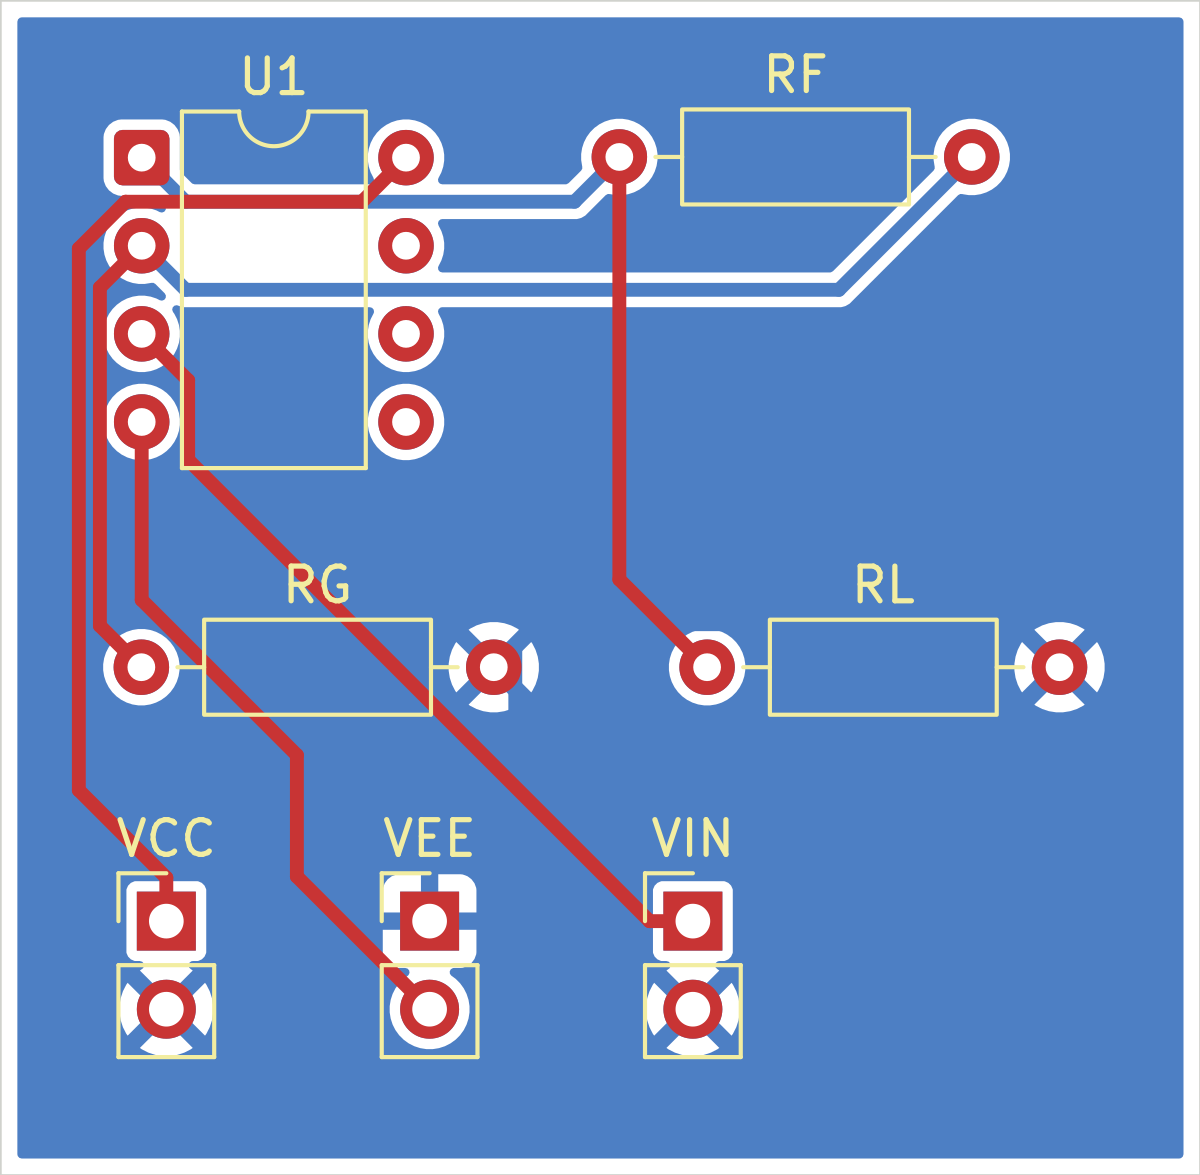
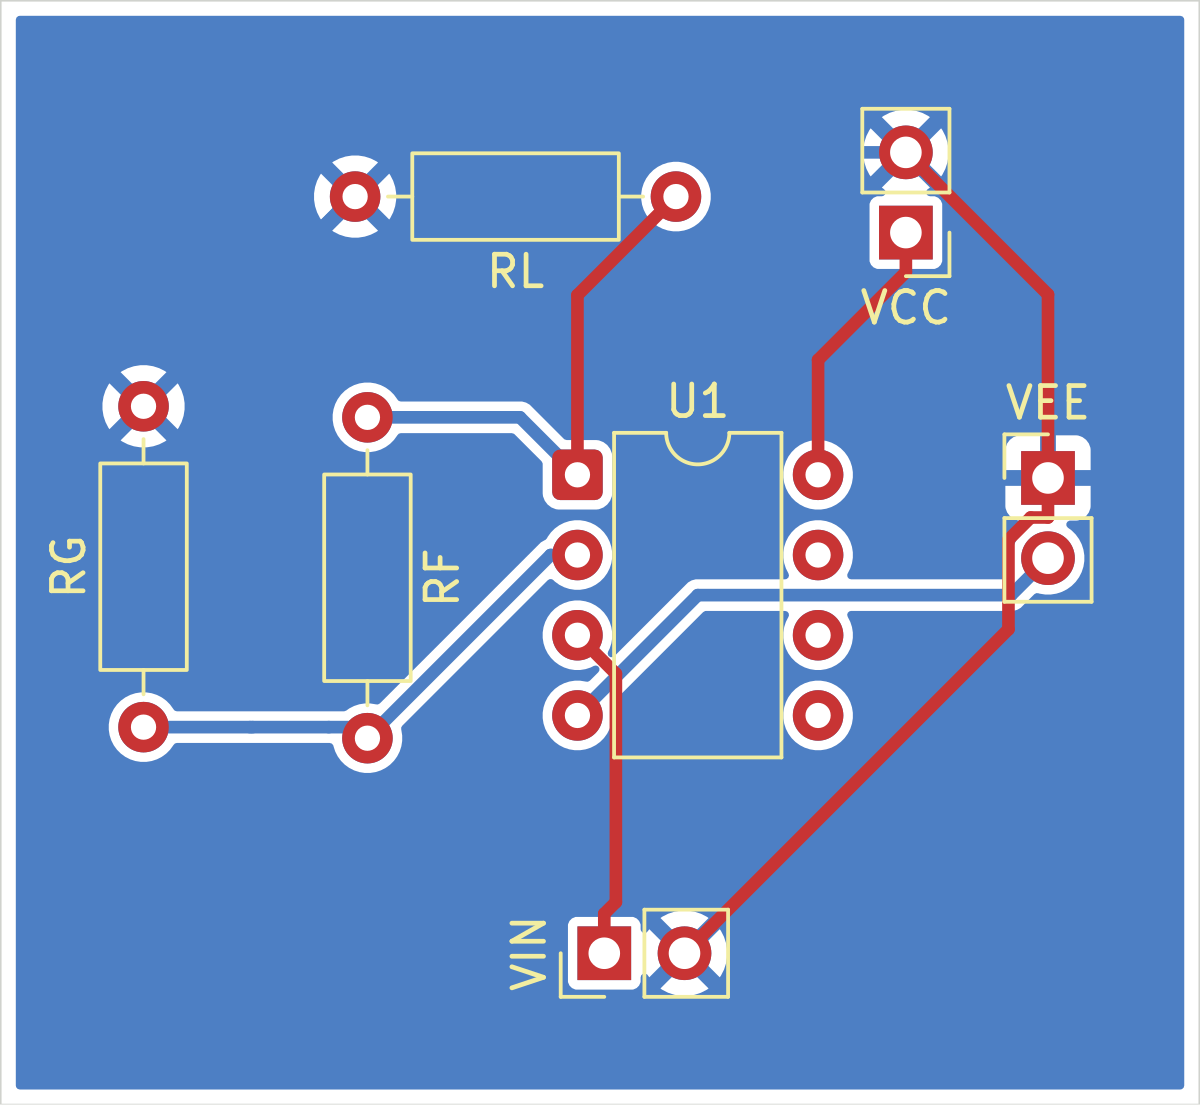
Boards: connectivity-aware auto-placement
- greedy placer: each unplaced part goes to the grid position and 90-degree
  rotation that least grows its nets' bounding boxes and the layout
- part sizes from footprint courtyards (the Pico's full bounding box
  included a fabrication drawing 20 mm beyond the module)
- board.placer: shelf keeps the old packer
- examples: tracks 23-37 % shorter; pico_io board 40 % smaller, no via,
  no starved_thermal warning

diff --git a/src/eda/adapters/pcbnew_script.py b/src/eda/adapters/pcbnew_script.py
@@ -25,6 +25,7 @@ pcbnew: Any = importlib.import_module("pcbnew")
 
 type Request = dict[str, Any]
 type Box = tuple[float, float, float, float]
+type Shape = tuple[float, Box, list[tuple[str, float, float]]]  # rotation, courtyard, pads
 
 FOOTPRINT_DIR = Path(os.environ.get("KICAD10_FOOTPRINT_DIR", "/usr/share/kicad/footprints"))
 
@@ -59,8 +60,21 @@ def _apply_rules(board: Any, rules: Request) -> None:
 
 
 def _courtyard(footprint: Any) -> Box:
-    """Bounding box (mm) of the footprint including courtyard and pads, at its position."""
-    box = footprint.GetBoundingBox(False)
+    """Bounding box (mm) of the footprint's courtyard and pads, at its position.
+
+    Footprints without a courtyard fall back to their full bounding box (which can include
+    fabrication drawings far beyond the part, e.g. the Pico's debug-header outline)."""
+    box = None
+    for layer in (pcbnew.F_CrtYd, pcbnew.B_CrtYd):
+        outline = footprint.GetCourtyard(layer)
+        if outline.OutlineCount():
+            part = outline.BBox()
+            box = part if box is None else box.Merge(part) or box
+    if box is None:
+        box = footprint.GetBoundingBox(False)
+    else:
+        for pad in footprint.Pads():
+            box.Merge(pad.GetBoundingBox())
     return (
         pcbnew.ToMM(box.GetX()),
         pcbnew.ToMM(box.GetY()),
@@ -92,6 +106,155 @@ def _auto_place(
         footprint.SetPosition(_point(x - bx, y - by))
         x += bw + gap
         shelf = max(shelf, bh)
+
+
+ROTATIONS = (0.0, 90.0, 180.0, 270.0)
+GRID_MM = 0.5  # candidate positions are on this grid
+AREA_WEIGHT = 0.5  # cost of growing the layout's half-perimeter, relative to wire length
+
+
+def _shape(footprint: Any, rotation: float) -> tuple[Box, list[tuple[str, float, float]]]:
+    """Courtyard box and (net, x, y) of each connected pad, relative to the footprint origin."""
+    footprint.SetOrientationDegrees(rotation)
+    footprint.SetPosition(_point(0, 0))
+    box = _courtyard(footprint)
+    pads: list[tuple[str, float, float]] = [
+        (
+            str(pad.GetNetname()),
+            float(pcbnew.ToMM(pad.GetPosition().x)),
+            float(pcbnew.ToMM(pad.GetPosition().y)),
+        )
+        for pad in footprint.Pads()
+        if pad.GetNetname()
+    ]
+    return box, pads
+
+
+def _overlaps(box: Box, others: list[Box], gap: float) -> bool:
+    x, y, w, h = box
+    for ox, oy, ow, oh in others:
+        if x < ox + ow + gap and ox < x + w + gap and y < oy + oh + gap and oy < y + h + gap:
+            return True
+    return False
+
+
+def _connected_place(
+    placed: list[tuple[Any, Box]],
+    unplaced: list[Any],
+    gap: float,
+    bounds: Box | None,
+) -> None:
+    """Greedy placement that keeps connected parts together.
+
+    Parts go one at a time, the one with the most connections to already placed parts
+    first (ties: larger first, then by reference). Each takes the grid position and
+    rotation with the lowest cost: the growth of every net's bounding box (half-perimeter
+    wire length) plus AREA_WEIGHT times the growth of the layout's own half-perimeter.
+    `bounds` (x, y, w, h) confines parts to a fixed board; otherwise the layout grows.
+    """
+    boxes = [box for _, box in placed]
+    net_boxes: dict[str, list[float]] = {}
+
+    def add_pad(net: str, x: float, y: float) -> None:
+        b = net_boxes.get(net)
+        if b is None:
+            net_boxes[net] = [x, y, x, y]
+        else:
+            b[0], b[1], b[2], b[3] = min(b[0], x), min(b[1], y), max(b[2], x), max(b[3], y)
+
+    for footprint, _ in placed:
+        for pad in footprint.Pads():
+            if pad.GetNetname():
+                pos = pad.GetPosition()
+                add_pad(pad.GetNetname(), pcbnew.ToMM(pos.x), pcbnew.ToMM(pos.y))
+
+    shapes: dict[int, list[Shape]] = {}
+    for fp in unplaced:
+        variants: list[Shape] = []
+        for rotation in ROTATIONS:
+            box, pads = _shape(fp, rotation)
+            variants.append((rotation, box, pads))
+        shapes[id(fp)] = variants
+    remaining = list(unplaced)
+    while remaining:
+
+        def priority(fp: Any) -> tuple[int, float, str]:
+            _, (_, _, w, h), pads = shapes[id(fp)][0]
+            linked = sum(1 for net, _, _ in pads if net in net_boxes)
+            return (-linked, -w * h, fp.GetReference())
+
+        remaining.sort(key=priority)
+        footprint = remaining.pop(0)
+        layout: Box | None = None  # x0, y0, x1, y1 of everything placed so far
+        if boxes:
+            layout = (
+                float(min(b[0] for b in boxes)),
+                float(min(b[1] for b in boxes)),
+                float(max(b[0] + b[2] for b in boxes)),
+                float(max(b[1] + b[3] for b in boxes)),
+            )
+        best: tuple[float, float, float, float] | None = None  # cost, x, y, rotation
+        for rotation, (bx, by, bw, bh), pads in shapes[id(footprint)]:
+            # Range of footprint origins whose box stays in the allowed area.
+            if bounds is not None:
+                area = (
+                    bounds[0],
+                    bounds[1],
+                    bounds[0] + bounds[2] - bw,
+                    bounds[1] + bounds[3] - bh,
+                )
+            elif layout is not None:
+                area = (
+                    layout[0] - bw - gap,
+                    layout[1] - bh - gap,
+                    layout[2] + gap,
+                    layout[3] + gap,
+                )
+            else:
+                area = (0.0, 0.0, 0.0, 0.0)
+            x_lo, y_lo = float(area[0] - bx), float(area[1] - by)
+            x_hi, y_hi = float(area[2] - bx), float(area[3] - by)
+            steps_x = max(0, int((x_hi - x_lo) / GRID_MM))
+            steps_y = max(0, int((y_hi - y_lo) / GRID_MM))
+            for i in range(steps_x + 1):
+                x = x_lo + i * GRID_MM
+                for j in range(steps_y + 1):
+                    y = y_lo + j * GRID_MM
+                    box = (x + bx, y + by, bw, bh)
+                    if _overlaps(box, boxes, gap):
+                        continue
+                    cost = 0.0
+                    for net, px, py in pads:
+                        nb = net_boxes.get(net)
+                        if nb is None:
+                            continue
+                        ax, ay = x + px, y + py
+                        cost += (max(nb[2], ax) - min(nb[0], ax)) - (nb[2] - nb[0])
+                        cost += (max(nb[3], ay) - min(nb[1], ay)) - (nb[3] - nb[1])
+                    if layout is not None:
+                        grown = (
+                            max(layout[2], box[0] + bw)
+                            - min(layout[0], box[0])
+                            + max(layout[3], box[1] + bh)
+                            - min(layout[1], box[1])
+                        )
+                        cost += AREA_WEIGHT * (
+                            grown - (layout[2] - layout[0] + layout[3] - layout[1])
+                        )
+                    if best is None or cost < best[0] - 1e-9:
+                        best = (cost, x, y, rotation)
+        if best is None:
+            raise ValueError(
+                "no room for " + footprint.GetReference() + " on the board; enlarge it"
+            )
+        _, x, y, rotation = best
+        footprint.SetOrientationDegrees(rotation)
+        footprint.SetPosition(_point(x, y))
+        boxes.append(_courtyard(footprint))
+        for pad in footprint.Pads():
+            if pad.GetNetname():
+                pos = pad.GetPosition()
+                add_pad(pad.GetNetname(), pcbnew.ToMM(pos.x), pcbnew.ToMM(pos.y))
 
 
 def _target_width(footprints: list[Any], gap: float) -> float:
@@ -140,8 +303,20 @@ def build(request: Request) -> Request:
             unplaced.append(footprint)
 
     gap = request["board"]["spacing"]
-    width = request["board"].get("width") or _target_width(unplaced, gap)
-    _auto_place(placed, unplaced, width, gap)
+    if request["board"].get("placer", "connected") == "shelf":
+        width = request["board"].get("width") or _target_width(unplaced, gap)
+        _auto_place(placed, unplaced, width, gap)
+    else:
+        bounds: Box | None = None
+        if request["board"].get("width") and request["board"].get("height"):
+            inset = request["board"]["margin"]
+            bounds = (
+                inset,
+                inset,
+                request["board"]["width"] - 2 * inset,
+                request["board"]["height"] - 2 * inset,
+            )
+        _connected_place(placed, unplaced, gap, bounds)
 
     boxes = [_courtyard(fp) for fp in board.GetFootprints()]
     margin = request["board"]["margin"]

diff --git a/tests/test_m2.py b/tests/test_m2.py
@@ -1,3 +1,4 @@
+import shutil
 import zipfile
 from pathlib import Path
 
@@ -7,6 +8,7 @@ from eda import pipeline
 from eda.adapters import freerouting
 from eda.design import load_design
 from eda.footprints import pad_numbers
+from eda.project import REPO_ROOT
 from eda.result import Diagnostics
 from tests.conftest import LED_CIRCUIT, MakeProject, requires_kicad, requires_ngspice
 
@@ -157,3 +159,36 @@ def test_ground_pour(make_project: MakeProject) -> None:
         assert isinstance(area, float) and area > 50
     drc = result.data["drc"]
     assert isinstance(drc, dict) and drc["errors"] == 0
+
+
+@requires_kicad
+def test_connected_placement_shortens_tracks(tmp_path: Path) -> None:
+    if not freerouting.JAR.is_file():
+        pytest.skip("Freerouting is not downloaded (tools/freerouting/fetch.sh)")
+    lengths: dict[str, float] = {}
+    for placer in ("shelf", "connected"):
+        root = tmp_path / placer
+        shutil.copytree(
+            REPO_ROOT / "projects" / "opamp_amp",
+            root,
+            ignore=shutil.ignore_patterns("out", "iterations.jsonl"),
+        )
+        board = root / "design" / "board.yaml"
+        text = board.read_text(encoding="utf-8")
+        board.write_text(text.replace("board:\n", f"board:\n  placer: {placer}\n", 1), "utf-8")
+        result = pipeline.pcb(root)
+        assert result.ok, result.errors
+        routing = result.data["routing"]
+        assert isinstance(routing, dict)
+        length = routing["track_length_mm"]
+        assert isinstance(length, float)
+        lengths[placer] = length
+    assert lengths["connected"] < 0.9 * lengths["shelf"]
+
+
+@requires_kicad
+def test_fixed_board_too_small(make_project: MakeProject) -> None:
+    root = _board(make_project, "board: { width: 8mm, height: 8mm, margin: 1mm }\n")
+    result = pipeline.pcb(root)
+    assert result.tool_error
+    assert "no room for" in result.errors[0].message

diff --git a/src/eda/schema/board.py b/src/eda/schema/board.py
@@ -10,6 +10,8 @@ class Outline(StrictModel):
     height: str | None = None
     margin: str = "3mm"
     spacing: str = "3mm"  # gap between auto-placed parts
+    # connected: keep connected parts together (short tracks); shelf: pack by size
+    placer: Literal["connected", "shelf"] = "connected"
     layers: Literal[2] = 2
 
 

diff --git a/src/eda/pcb.py b/src/eda/pcb.py
@@ -194,6 +194,7 @@ def _build_request(board: ResolvedBoard, pcb: Path, dsn: Path) -> dict[str, Any]
             "height": board.height,
             "margin": board.margin,
             "spacing": board.spacing,
+            "placer": board.placer,
         },
         "nets": nets,
         "footprints": footprints,

diff --git a/src/eda/model.py b/src/eda/model.py
@@ -219,6 +219,7 @@ class ResolvedBoard:
     passes: int
     source: SourceMap
     pours: tuple[BoardPour, ...] = ()
+    placer: str = "connected"  # connected | shelf
 
 
 @dataclass(frozen=True)

diff --git a/src/eda/design.py b/src/eda/design.py
@@ -460,6 +460,7 @@ def _resolve_board(
         passes=raw.routing.passes,
         source=src,
         pours=tuple(pours),
+        placer=raw.board.placer,
     )
 
 

diff --git a/DESIGN_DECISIONS.md b/DESIGN_DECISIONS.md
@@ -389,7 +389,7 @@ routing:
 ### 13.5 Not done in M2 / findings
 
 1. **KiCad schematic (`.kicad_sch`) generation** is not done; the schematic stays netlistsvg. The board is generated straight from the netlist, which is what fabrication needs.
-2. **Placement is naive** (shelf packing in definition order). Connectivity-aware placement would shorten tracks; `placement:` covers hand placement meanwhile.
+2. ~~**Placement is naive**~~ (done in §17) (shelf packing in definition order). Connectivity-aware placement would shorten tracks; `placement:` covers hand placement meanwhile.
 3. ~~**No copper pours / ground plane** yet.~~ Done in §16.
 4. **3D render has no component bodies** because `kicad-packages3d` (several GB) is not installed.
 5. Dual-channel parts: an imported single-channel model on a dual package leaves the other channel floating; the `unused_pads` warning says so, but tying it off is still a manual design step.
@@ -539,3 +539,23 @@ Carry-over from §13.5: boards had no ground plane.
 - **Flow**: route first, then pour. The router sees the same `.dsn` as before (route cache unaffected) and connects every net with tracks; the fill is added afterwards by the `pour` command of `pcbnew_script.py`: a zone over the board outline inset 0.5 mm, thermal reliefs on pads (gap and spoke width at least 0.5 mm), islands not connected to a pad removed, filled with `ZONE_FILLER`. Gerbers and the board images include it; `data.pcb.pours` lists net, layer, and filled area.
 - **DRC**: `starved_thermal` (a pad's thermal spokes reach only a fill island cut off by tracks) is reported as a **warning**: connectivity is already guaranteed by the tracks and checked as `unconnected` items, so it is a soldering/quality note, not a broken board.
 - Examples: `opamp_amp`, `tl072_amp`, and `pico_io` now have a bottom GND pour (861, 980, and 4257 mm² of copper). The first two pass DRC with 0 errors and 0 warnings; `pico_io` has one `starved_thermal` warning at D1's cathode, whose pad sits in a strip enclosed by bottom tracks. `led_demo` stays without a pour.
+
+## 17. Connectivity-aware placement (2026-10-20)
+
+Carry-over from §13.5 / §14.6: auto-placement packed parts by size, so connected parts ended up far apart (long tracks, a via on `pico_io`, a fill island under D1).
+
+- **Algorithm** (`pcbnew_script._connected_place`): greedy and deterministic. Hand-placed parts are fixed first. Then, repeatedly, the unplaced part with the most connections to placed parts (ties: larger, then by reference) is tried at every 0.5 mm grid position and every 90° rotation that does not overlap another part's courtyard plus `spacing`. The cost is the growth of each of its nets' bounding box (half-perimeter wire length) plus 0.5 × the growth of the layout's own half-perimeter, which keeps the board compact. With a fixed `width`/`height` the search stays inside the board minus `margin`; with nothing placed the first part starts at the origin.
+- **Courtyards**: part sizes now come from the footprint courtyard (plus pads) instead of the full bounding box, which for the Pico includes a fabrication drawing 20 mm beyond the module and left an empty strip on the board.
+- `board.placer: shelf` keeps the old packer.
+- Errors: a part that fits nowhere on a fixed-size board fails the build with `no room for <ref> on the board; enlarge it`.
+
+Result (same rules and router; DRC 0 errors on all):
+
+| Board | Track length shelf → connected | Board size (mm) |
+|---|---|---|
+| `led_demo` | 37.9 → 26.5 mm | 18.4 × 27.8 → 18.6 × 21.7 |
+| `opamp_amp` | 167.2 → 127.9 mm | 34.7 × 28.8 → 36.8 × 26.7 |
+| `tl072_amp` | 187.3 → 130.1 mm | 34.7 × 34.0 → 38.0 × 35.0 |
+| `pico_io` | 585.2 → 369.4 mm, 1 → 0 vias | 93.7 × 54.0 → 72.5 × 42.3; the `starved_thermal` warning is gone |
+
+Not done: no improvement pass after the greedy one (swaps, annealing), no rotation other than 90° steps, no awareness of board edges for connectors.

diff --git a/README.md b/README.md
@@ -99,7 +99,7 @@ Every run is written to the project's `iterations.jsonl` with the note, the chan
 | **Parts** | One YAML file per part type: pins, typed parameters, SPICE template, schematic symbol. Built in: DC, pulse, and sine sources; R, C, L; diodes (1N4148, 1N4007); LEDs in five colors; a generic op-amp macromodel (gain, GBW, slew rate, swing) |
 | **Vendor models** | `eda model inspect` / `eda model import` turn a manufacturer `.subckt` (e.g. TI TL072, TLV9002) into a part, detecting PSpice-compatibility mode automatically |
 | **Rendering** | Schematic auto-layout via netlistsvg with a custom skin and net labels; waveform SVGs; PNG copies via CairoSVG for the agent to look at |
-| **Boards** | `board.yaml` (outline, rules, optional placement, ground pours) → KiCad 10 board → Freerouting autorouting → copper fill → `kicad-cli` DRC as JSON → Gerbers, drill, positions, and BOM in one zip |
+| **Boards** | `board.yaml` (outline, rules, optional placement, ground pours) → connectivity-aware auto-placement → KiCad 10 board → Freerouting autorouting → copper fill → `kicad-cli` DRC as JSON → Gerbers, drill, positions, and BOM in one zip |
 | **Firmware** | Raspberry Pi Pico (RP2040) part with its full GPIO function table; `firmware.yaml` assigns roles per net; `eda fw` checks functions and conflicts, generates `pins.h` / `pins_init.h`, and scans C sources; `eda fw --build` compiles with the pico-sdk and reports compiler errors by file and line |
 | **Firmware in the loop** | `firmware: true` tests run the compiled firmware in an RP2040 emulator (rp2040js) in lock-step with ngspice: GPIO and PWM outputs drive the circuit, inputs and the ADC read node voltages, UART output is checked with regular expressions |
 | **Live viewer** | `eda watch` re-runs on every save and pushes updates to a local page: schematic, verdicts, operating point, zoomable waveforms, board layout and 3D view, iteration log |
@@ -122,7 +122,7 @@ Every run is written to the project's `iterations.jsonl` with the note, the chan
 ### From netlist to board
 
 ```yaml
-# design/board.yaml — everything is optional; parts without a placement are packed
+# design/board.yaml — everything is optional; unplaced parts go next to what they connect to
 board: { spacing: 4mm }
 rules: { clearance: 0.2mm, track_width: 0.4mm }
 pours: [{ net: GND, layer: bottom }]      # ground plane
@@ -242,7 +242,7 @@ Background and decisions: [`PROJECT_SUMMARY.md`](PROJECT_SUMMARY.md), [`DESIGN_D
 ```bash
 uv run ruff format --check && uv run ruff check   # style and lint
 uv run pyright                                    # strict static typing
-uv run pytest                                     # 157 tests
+uv run pytest                                     # 159 tests
 ```
 
 ---

diff --git a/HANDOFF.md b/HANDOFF.md
@@ -15,7 +15,7 @@
 
 - All six open decisions from `PROJECT_SUMMARY.md` §11 are settled (Python, YAML, no tscircuit fork, YAML is the PCB source of truth, RP2040/Pico, 2-layer boards).
 - Repository: https://github.com/TechieQuokka/ai-eda (public, `master`); M4 commits are local until the user approves a push.
-- Quality gates: `ruff format --check`, `ruff check`, `pyright` (strict), and `pytest` (157 tests) all pass; all five example projects pass `eda run`.
+- Quality gates: `ruff format --check`, `ruff check`, `pyright` (strict), and `pytest` (159 tests) all pass; all five example projects pass `eda run`.
 
 ## 2. Resuming on this machine
 
@@ -62,13 +62,14 @@ M4 is finished (`DESIGN_DECISIONS.md` §15): `pico_io` blinks its LED in the emu
 1. ~~Firmware stimulus~~: done (`events:`, §15.6).
 2. ~~Ground plane / copper pours~~: done (`pours:`, §16).
 3. Tighter output→input timing (inputs currently lag one window except after pin mode changes), when a design needs it.
-4. Other carry-overs from earlier milestones (table below).
+4. ~~Connectivity-aware placement~~: done (§17).
+5. Other carry-overs from earlier milestones (table below).
 
 ## 5. Known issues and carry-overs
 
 | Area | Issue | Where noted |
 |---|---|---|
-| Boards | Auto-placement is naive shelf packing; MCU modules need hand placement | §13.5, §14.6 |
+| Boards | Auto-placement is greedy (one part at a time, no later improvement pass); rotations are 90° steps | §17 |
 | Boards | No KiCad schematic (`.kicad_sch`) export | §13.5 |
 | Boards | Freerouting is nondeterministic (handled by a route cache keyed on the `.dsn` hash); one unexplained 10-min hang (now a 180 s timeout) | §13.3, adapters/freerouting.py |
 | Simulation | TLV6001-style vendor models need `.option optran` to converge; not supported | §12.4 |

diff --git a/CLAUDE.md b/CLAUDE.md
@@ -70,6 +70,7 @@ The CLI never makes design decisions; it only reports.
 
 - Our YAML is the source of truth; never edit files under `out/pcb/` (they are regenerated).
 - `board.yaml` sets outline, rules, optional hand placement, and routing passes (`DESIGN_DECISIONS.md` §13.2). An empty `board: {}` is enough to get a board.
+- Parts without a hand placement are placed next to the parts they connect to (`board.placer: connected`, the default; `shelf` packs by size). Hand-place only what has a mechanical reason (connectors at the edge, a module's orientation); with a fixed `width`/`height`, `no room for X` means the board is too small.
 - Footprints come from each part's `pcb:` default; override per part with `footprint:` (KiCad `Library:Name`) and `pads:` (pin → pad) in `circuit.yaml`. Sources become 2-pin headers.
 - `uv run eda pcb projects/<name>` builds, autoroutes (Freerouting), runs DRC, and exports Gerbers/drill/BOM. DRC issues come back as `drc_<type>` errors pointing at the part; `unrouted` means the router gave up: move parts apart (placement), enlarge the board, or raise `routing.passes`.
 - Read `unused_pads` warnings: unused IC channels usually need tying off.

diff --git a/PROJECT_SUMMARY.md b/PROJECT_SUMMARY.md
@@ -237,4 +237,4 @@ Because the human only watches, provide:
 ## 16. Immediate Next Steps
 
 1. M4 is done (`DESIGN_DECISIONS.md` §15). Next candidates: UART RX / stimulus input to the firmware, finer output→input timing, a second MCU family.
-2. Carry-overs: `optran` for hard-to-converge vendor models (§12.4); connectivity-aware placement, KiCad schematic export (§13.5); MCU-aware placement (§14.6).
+2. Carry-overs: `optran` for hard-to-converge vendor models (§12.4); KiCad schematic export (§13.5). Connectivity-aware placement is done (§17).
